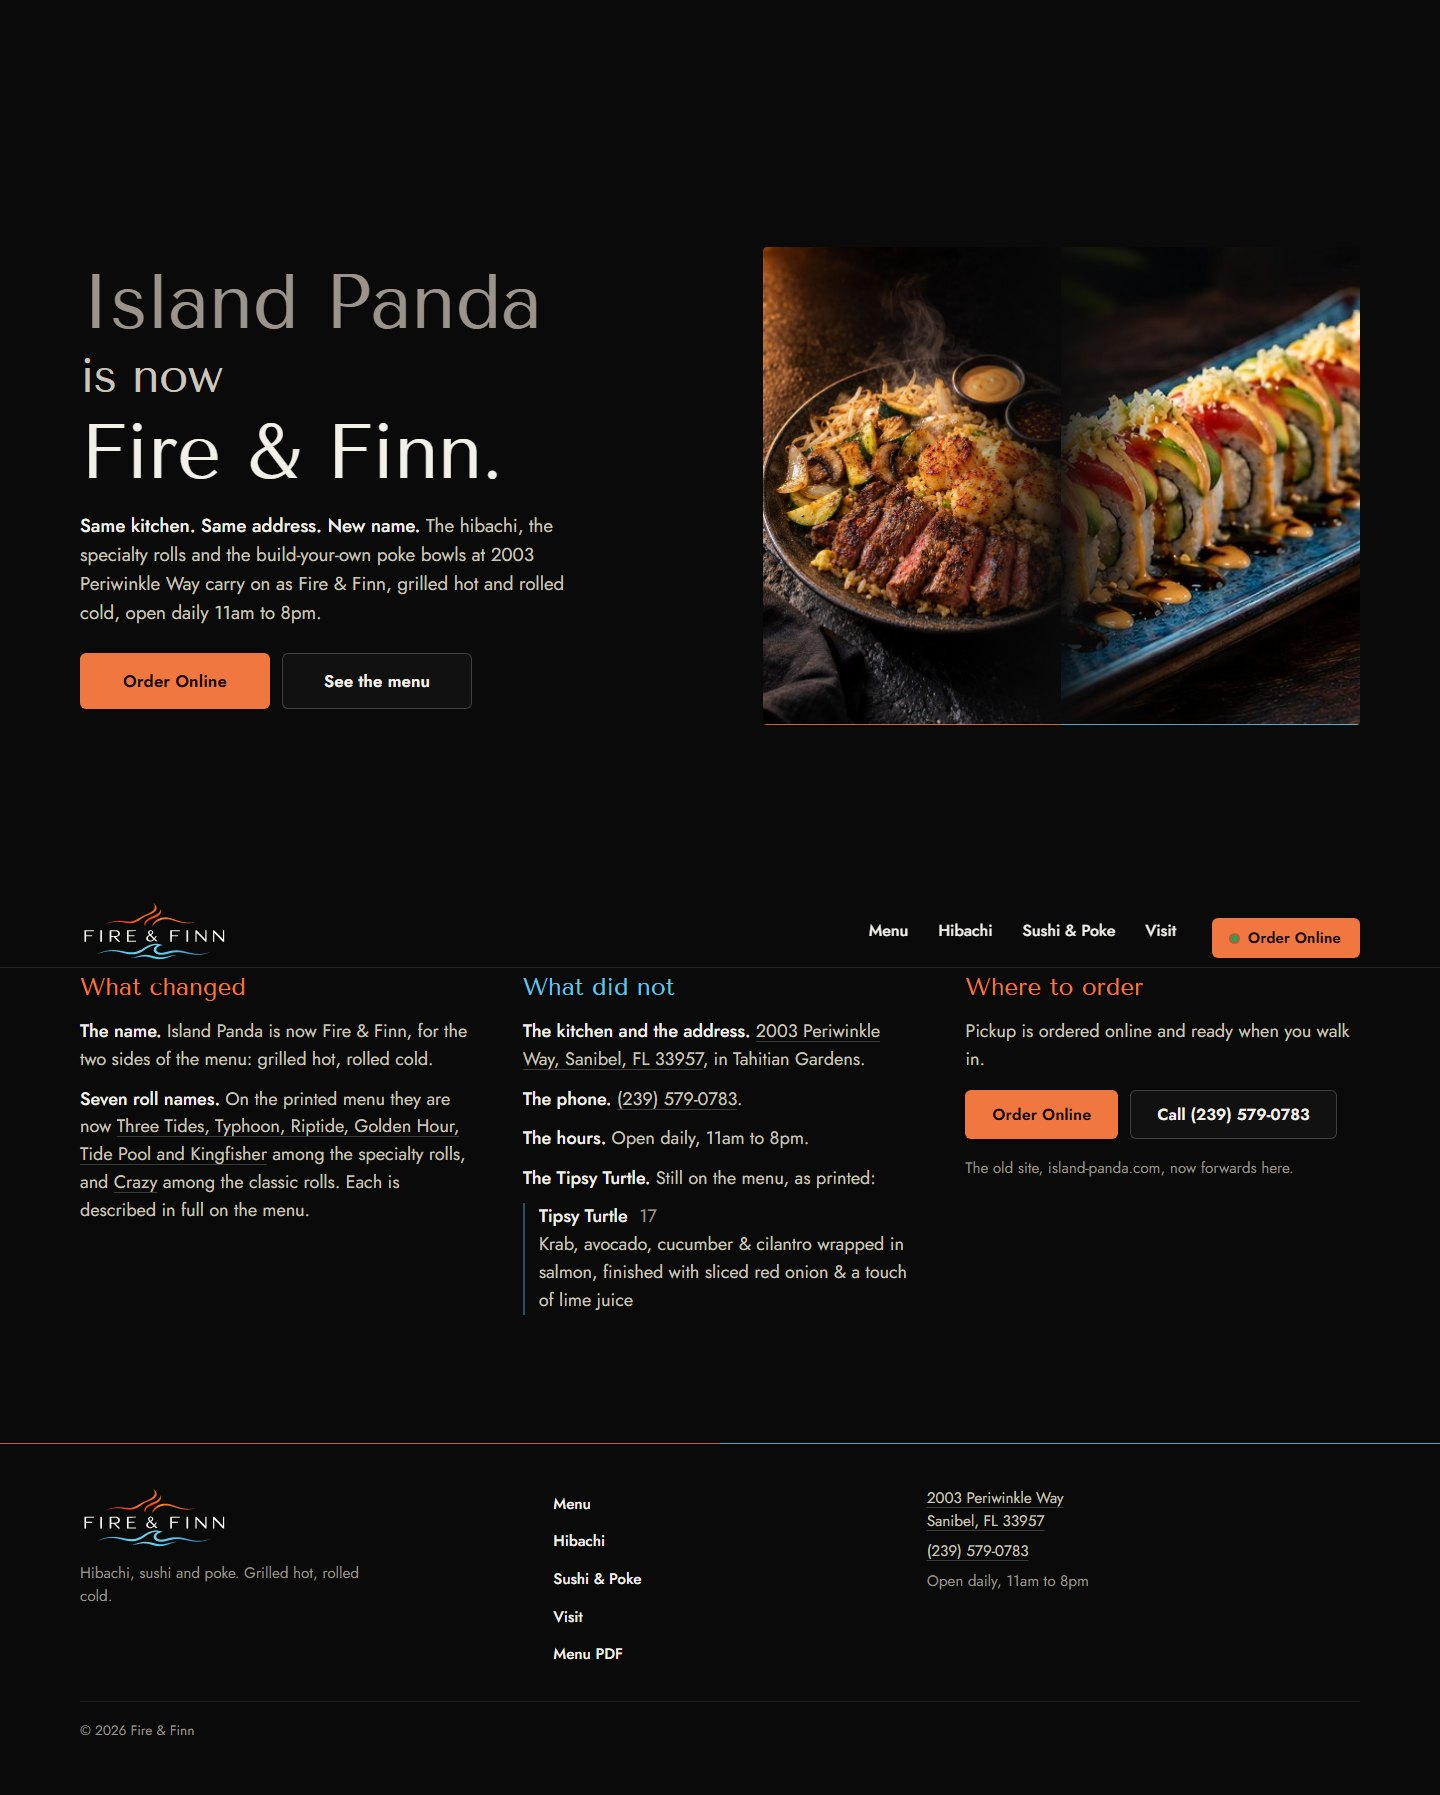
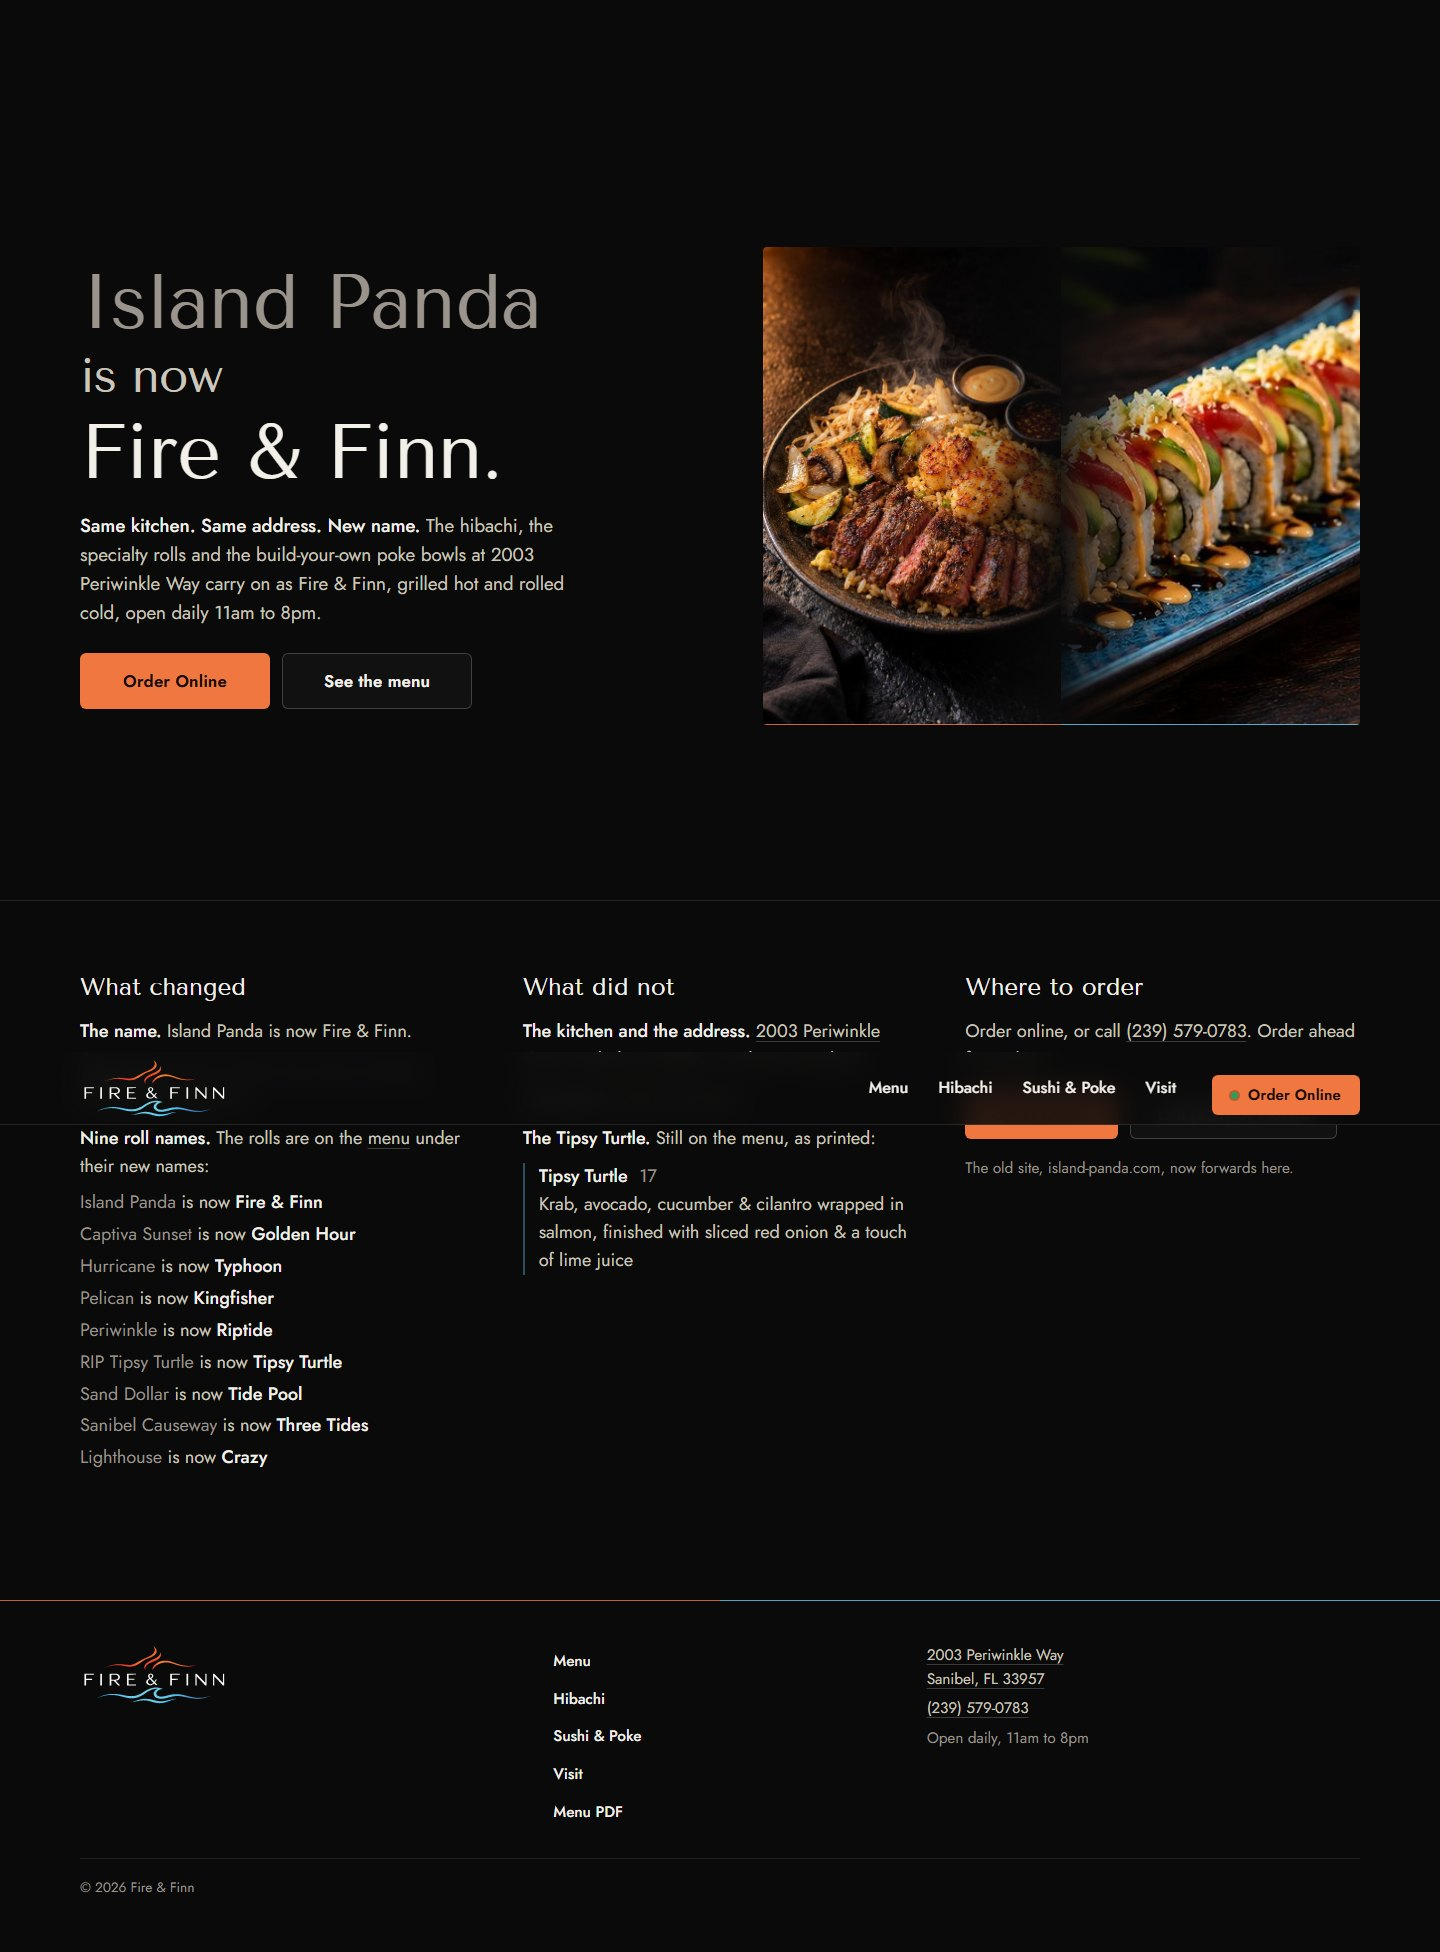
Board fixes on /island-panda/: hours as good news, the full rename list, ink headings, one brand line, plain ordering copy
- Hours move to What changed: "Open later. 11am to 8pm every day, Sundays through Thursdays too."
- Nine old-to-new roll names from the Toast rebrand record, one per line, no prices, replacing the six-link bullet
- The three h2s in ink; the brand line kept once in the lead; footer tagline cut on this page
- Where to order: "Order online, or call (239) 579-0783. Order ahead for pickup."
- Contrast comments corrected (--muted 11.7:1, --dim 6.6:1); REPORT.md figures corrected, items 44-49 added
- Cache-bust v=13 on all three pages; menu text byte-identical; screenshots retaken

diff --git a/island-panda/index.html b/island-panda/index.html
@@ -23,7 +23,7 @@
   <link rel="preload" href="/assets/fonts/TenorSans-Regular.woff2" as="font" type="font/woff2" crossorigin>
   <link rel="preload" href="/assets/fonts/Jost-400.woff2" as="font" type="font/woff2" crossorigin>
   <link rel="preload" href="/assets/fonts/Jost-500.woff2" as="font" type="font/woff2" crossorigin>
-  <link rel="stylesheet" href="/styles.css?v=12">
+  <link rel="stylesheet" href="/styles.css?v=13">
   <script>document.documentElement.classList.add("js");</script>
   <script type="application/ld+json">
   {
@@ -104,8 +104,21 @@
       <div class="hot">
         <h2>What changed</h2>
         <ul>
-          <li><b>The name.</b> Island Panda is now Fire &amp; Finn, for the two sides of the menu: grilled hot, rolled cold.</li>
-          <li><b>Seven roll names.</b> On the printed menu they are now <a href="/#rolls">Three Tides, Typhoon, Riptide, Golden Hour, Tide Pool and Kingfisher</a> among the specialty rolls, and <a href="/#classic">Crazy</a> among the classic rolls. Each is described in full on the menu.</li>
+          <li><b>The name.</b> Island Panda is now Fire &amp; Finn.</li>
+          <li><b>Open later.</b> 11am to 8pm every day, Sundays through Thursdays too.</li>
+          <li><b>Nine roll names.</b> The rolls are on the <a href="/#rolls">menu</a> under their new names:
+            <ul class="renames">
+              <li><span class="old">Island Panda</span> is now <b>Fire &amp; Finn</b></li>
+              <li><span class="old">Captiva Sunset</span> is now <b>Golden Hour</b></li>
+              <li><span class="old">Hurricane</span> is now <b>Typhoon</b></li>
+              <li><span class="old">Pelican</span> is now <b>Kingfisher</b></li>
+              <li><span class="old">Periwinkle</span> is now <b>Riptide</b></li>
+              <li><span class="old">RIP Tipsy Turtle</span> is now <b>Tipsy Turtle</b></li>
+              <li><span class="old">Sand Dollar</span> is now <b>Tide Pool</b></li>
+              <li><span class="old">Sanibel Causeway</span> is now <b>Three Tides</b></li>
+              <li><span class="old">Lighthouse</span> is now <b>Crazy</b></li>
+            </ul>
+          </li>
         </ul>
       </div>
       <div class="cold">
@@ -113,7 +126,6 @@
         <ul>
           <li><b>The kitchen and the address.</b> <a href="https://www.google.com/maps/dir/?api=1&amp;destination=2003+Periwinkle+Way,+Sanibel,+FL+33957" target="_blank" rel="noopener">2003 Periwinkle Way, Sanibel, FL 33957</a>, in Tahitian Gardens.</li>
           <li><b>The phone.</b> <a href="tel:+12395790783">(239) 579-0783</a>.</li>
-          <li><b>The hours.</b> Open daily, 11am to 8pm.</li>
           <li><b>The Tipsy Turtle.</b> Still on the menu, as printed:
             <p class="quote"><span class="q-name">Tipsy Turtle</span> <span class="q-price">17</span><br>Krab, avocado, cucumber &amp; cilantro wrapped in salmon, finished with sliced red onion &amp; a touch of lime juice</p>
           </li>
@@ -122,7 +134,7 @@
       <div class="hot">
         <h2>Where to order</h2>
         <ul>
-          <li>Pickup is ordered online and ready when you walk in.</li>
+          <li>Order online, or call <a href="tel:+12395790783">(239) 579-0783</a>. Order ahead for pickup.</li>
         </ul>
         <div class="cta">
           <a class="btn btn-fire" data-order data-live="Order Online" data-call="Call to Order" href="tel:+12395790783">Call to Order</a>
@@ -138,7 +150,6 @@
   <div class="wrap foot">
     <div class="foot-brand">
       <img src="/assets/logo-compact.svg" alt="Fire &amp; Finn" width="1495" height="606" loading="lazy" decoding="async">
-      <p>Hibachi, sushi and poke. Grilled hot, rolled cold.</p>
     </div>
     <nav class="foot-links" aria-label="Footer">
       <a href="/#menu">Menu</a>
@@ -163,6 +174,6 @@
   <a class="btn btn-ghost" href="https://www.google.com/maps/dir/?api=1&amp;destination=2003+Periwinkle+Way,+Sanibel,+FL+33957" target="_blank" rel="noopener">Directions</a>
 </nav>
 
-<script src="/app.js?v=12"></script>
+<script src="/app.js?v=13"></script>
 </body>
 </html>

diff --git a/styles.css b/styles.css
@@ -13,8 +13,8 @@
   --bg-hot: #150c07;       /* the ground under the hot side of the menu */
   --bg-cold: #070c12;      /* and under the cold side */
   --ink: #f3f0ea;          /* names, headings */
-  --muted: #cbc6be;        /* descriptions (12:1 on the ground) */
-  --dim: #9a948c;          /* notes, meta (7.3:1) */
+  --muted: #cbc6be;        /* descriptions (11.7:1 on the ground) */
+  --dim: #9a948c;          /* notes, meta (6.6:1) */
   --fire: #f07840;
   --sea: #62c6ec;
   --water: #36a9cf;
@@ -444,7 +444,9 @@ footer::before { content: ""; position: absolute; left: 0; right: 0; top: 0; hei
 .proof { padding: 56px 0 8px; border-top: 1px solid var(--line); }
 .proof-grid { display: grid; gap: 40px; }
 @media (min-width: 760px) { .proof { padding-top: 72px; } .proof-grid { grid-template-columns: repeat(3, 1fr); gap: 40px 48px; } }
-.proof h2 { margin: 0 0 16px; color: var(--accent); font: 400 1.5rem/1.2 var(--display); }
+.proof h2 { margin: 0 0 16px; color: var(--ink); font: 400 1.5rem/1.2 var(--display); }   /* ink, not fire or sea: on this page the colours would only decorate */
+.proof .renames { margin: 8px 0 0; gap: 4px; }
+.proof .renames .old { color: var(--dim); }
 .proof ul { list-style: none; margin: 0; padding: 0; display: grid; gap: 12px; color: var(--muted); }
 .proof li b { color: var(--ink); font-weight: 500; }
 .proof li a { text-underline-offset: 4px; text-decoration-color: var(--line-strong); transition: color .2s var(--ease), text-decoration-color .2s var(--ease); }

diff --git a/index.html b/index.html
@@ -31,7 +31,7 @@
   <link rel="preload" href="assets/fonts/Jost-500.woff2" as="font" type="font/woff2" crossorigin>
   <link rel="preload" as="image" href="assets/food/hero-hibachi.jpg" imagesrcset="assets/food/hero-hibachi-640.jpg 640w, assets/food/hero-hibachi-800.jpg 800w, assets/food/hero-hibachi.jpg 1024w" imagesizes="(min-width: 900px) 50vw, 100vw" fetchpriority="high">
   <link rel="preload" as="image" href="assets/food/fire-and-finn-roll.jpg" imagesrcset="assets/food/fire-and-finn-roll-640.jpg 640w, assets/food/fire-and-finn-roll-800.jpg 800w, assets/food/fire-and-finn-roll-1024.jpg 1024w, assets/food/fire-and-finn-roll-1200.jpg 1200w, assets/food/fire-and-finn-roll.jpg 1536w" imagesizes="(min-width: 900px) 50vw, 100vw" fetchpriority="high">
-  <link rel="stylesheet" href="styles.css?v=12">
+  <link rel="stylesheet" href="styles.css?v=13">
   <script>document.documentElement.classList.add("js");</script>
 
   <script type="application/ld+json">
@@ -411,6 +411,6 @@
   <a class="btn btn-ghost" href="https://www.google.com/maps/dir/?api=1&amp;destination=2003+Periwinkle+Way,+Sanibel,+FL+33957" target="_blank" rel="noopener">Directions</a>
 </nav>
 
-<script src="app.js?v=12"></script>
+<script src="app.js?v=13"></script>
 </body>
 </html>

diff --git a/404.html b/404.html
@@ -7,7 +7,7 @@
   <meta name="robots" content="noindex">
   <meta name="theme-color" content="#0a0a0b">
   <link rel="icon" type="image/png" sizes="32x32" href="/assets/favicon-32.png">
-  <link rel="stylesheet" href="/styles.css?v=12">
+  <link rel="stylesheet" href="/styles.css?v=13">
   <script>document.documentElement.classList.add("js");</script>
 </head>
 <body>

diff --git a/review/site-creative/REPORT.md b/review/site-creative/REPORT.md
@@ -103,8 +103,8 @@ designer would leave it. What changed, and what I judged fine as it was.
     beneath the photograph (positioned children paint over an element's own outline), so the ring is now drawn by the
     gradient overlay above the picture; in the scrolling category row the ring was clipped by the row's overflow, so it is
     inset there. Both verified by pressing Tab in headless Edge, not by scripting focus.
-20. **Daylight.** The meta grey (`--dim`, used for the status line, notes, category links at rest) is a step brighter, 7.3:1
-    on the ground instead of 6.5:1. The desktop lead over the photographs has a soft dark shadow.
+20. **Daylight.** The meta grey (`--dim`, used for the status line, notes, category links at rest) is a step brighter, 6.6:1
+    on the ground instead of 6.1:1. The desktop lead over the photographs has a soft dark shadow.
 21. **Entrance a third of a second quicker.** Pictures settle in 1.2s instead of 1.5s and the words follow sooner; the order
     is the same. The medium weight of Jost, used on the first screen for the captions and status, is now preloaded like the
     other two (10KB), so it no longer swaps in late.
@@ -233,6 +233,28 @@ Main (4d8ea80) merged first. One commit.
 Screenshots: `island-panda-390x844.jpg`, `island-panda-1440x900.jpg` and the `-full` pair beside the other after-shots.
 (In the full-page captures the fixed header and bottom bar sit at the scroll position of the capture, not at the top; that
 is the screenshot, not the page.)
+
+### Board fixes on the Island Panda page
+
+44. **Hours are good news, filed under What changed.** Island Panda closed at 7pm Sunday to Thursday; the page had the
+    hours under What did not. Now: "Open later. 11am to 8pm every day, Sundays through Thursdays too."
+45. **The full rename list, from the Toast notes.** Nine lines, one per roll, old name in the dim grey and the new name in
+    ink, no prices, taken only from the pairs the Toast rebrand record holds: Island Panda, Captiva Sunset, Hurricane,
+    Pelican, Periwinkle, RIP Tipsy Turtle, Sand Dollar, Sanibel Causeway and Lighthouse became Fire & Finn, Golden Hour,
+    Typhoon, Kingfisher, Riptide, Tipsy Turtle, Tide Pool, Three Tides and Crazy (new names as the printed menu spells
+    them). Dropped items are not listed; this is a bridge, not a comparison.
+46. **The three h2s are in ink.** Fire and sea mean hot food and cold food on the home page; on this page they would only
+    have coloured headings.
+47. **One brand line.** "Grilled hot and rolled cold" stays in the lead; the copy of it in The name bullet and the footer
+    tagline on this page are cut.
+48. **Where to order says both channels plainly**: "Order online, or call (239) 579-0783. Order ahead for pickup." No
+    readiness promise, since nobody has checked Toast's pickup quote time; no dine-in line, since the notes do not
+    confirm seating.
+49. **Contrast comments corrected.** `--muted` is 11.7:1 and `--dim` 6.6:1 on #0a0a0b (the comments said 12:1 and 7.3:1,
+    and the pass-three note said the old `--dim` was 6.5:1; it was 6.1:1). The figures in this report are corrected too.
+
+Cache-bust `?v=13` on all three pages. Overflow 0 at 390 and 1440; no console errors; heights 2,673 and 1,952px. The two
+screenshots and the full-page pair are retaken. Menu text identical.
 
 ## Considered and rejected
 
